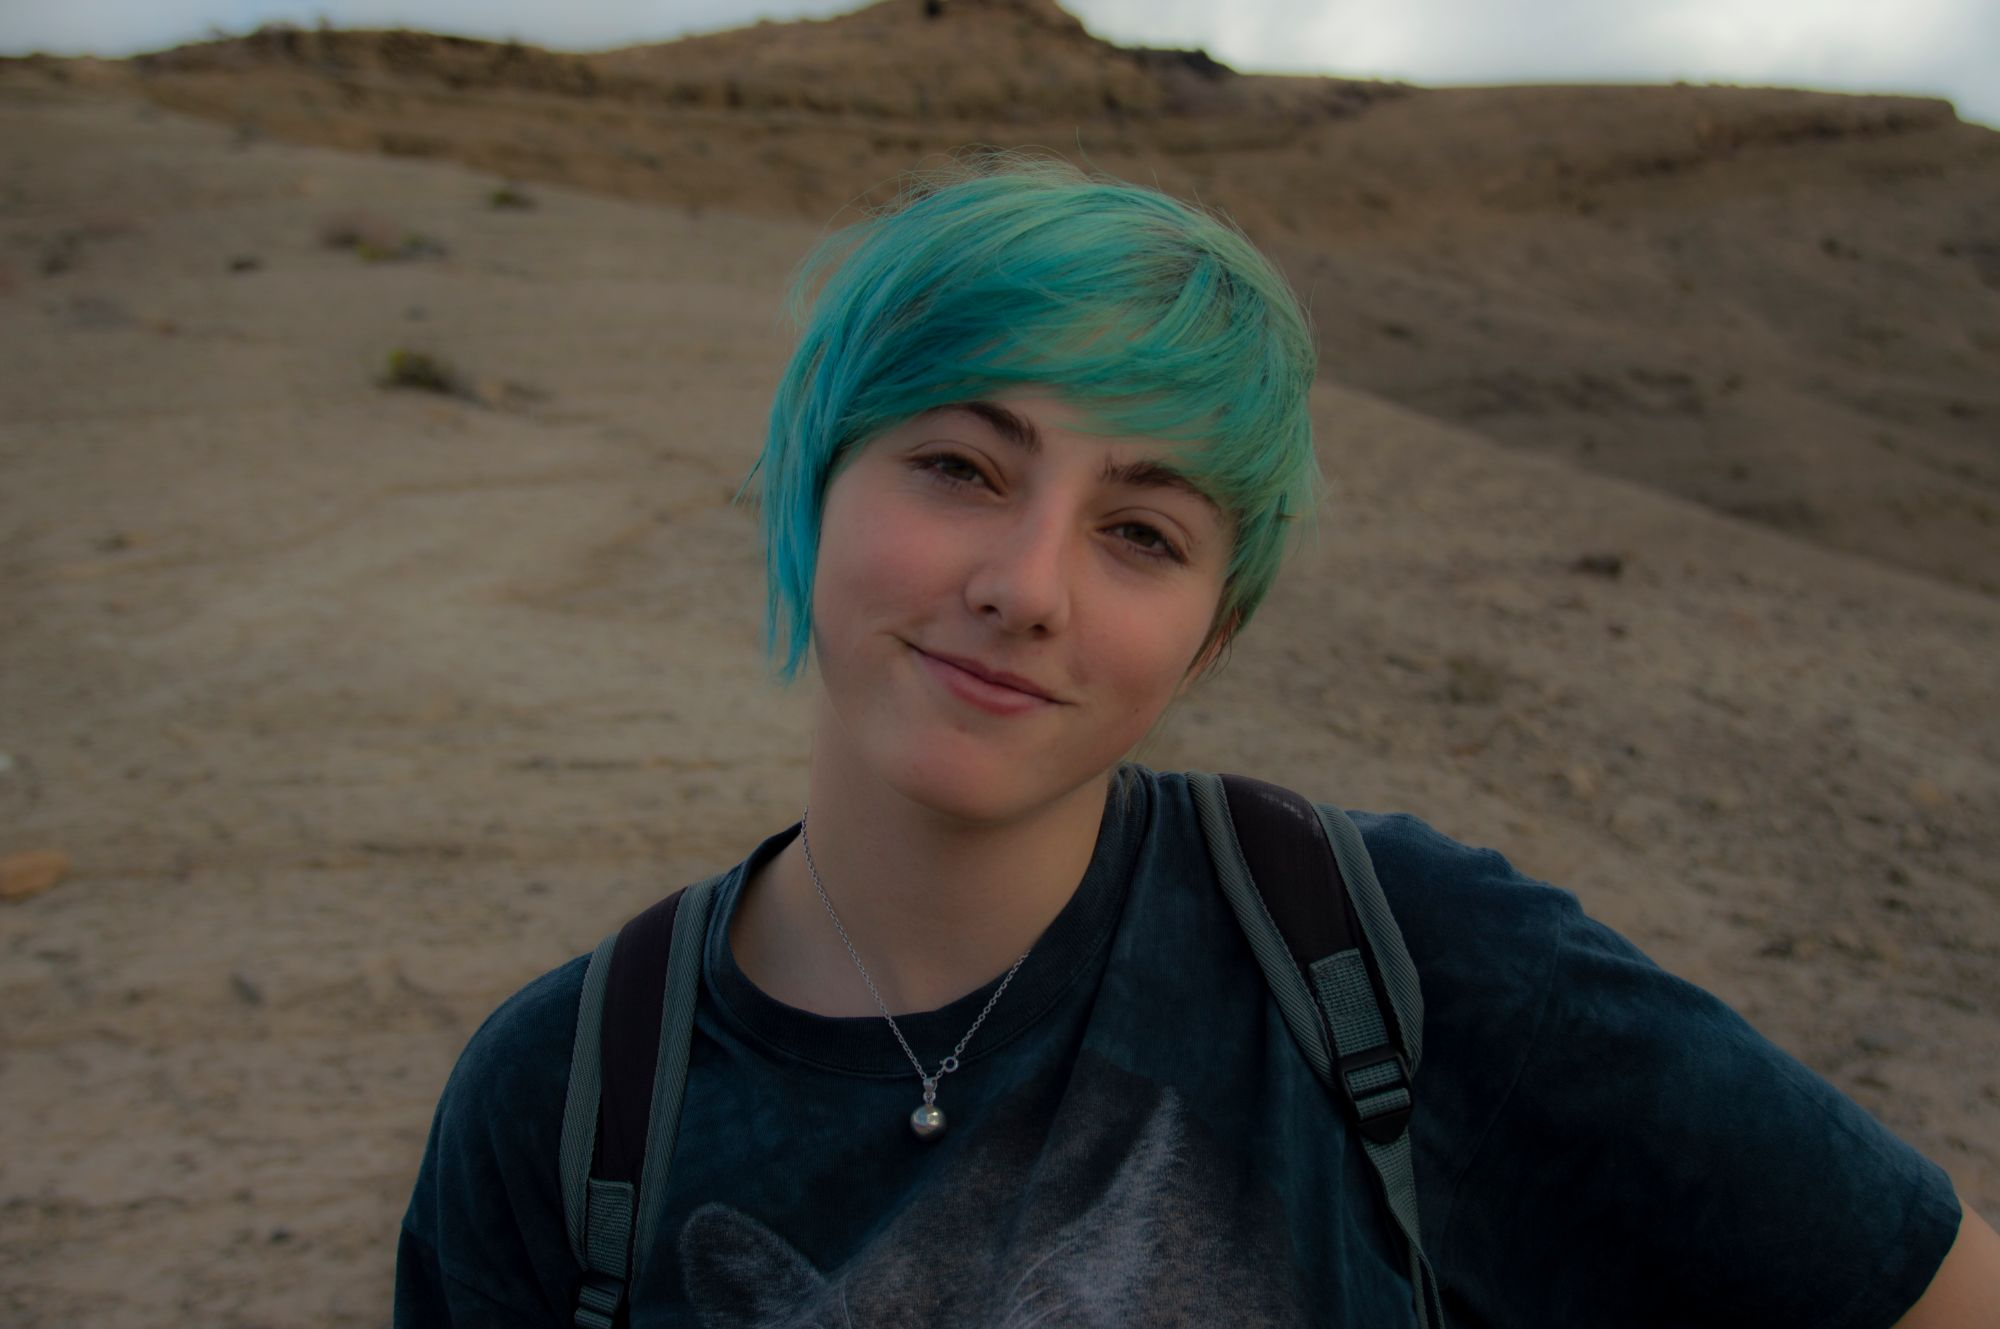
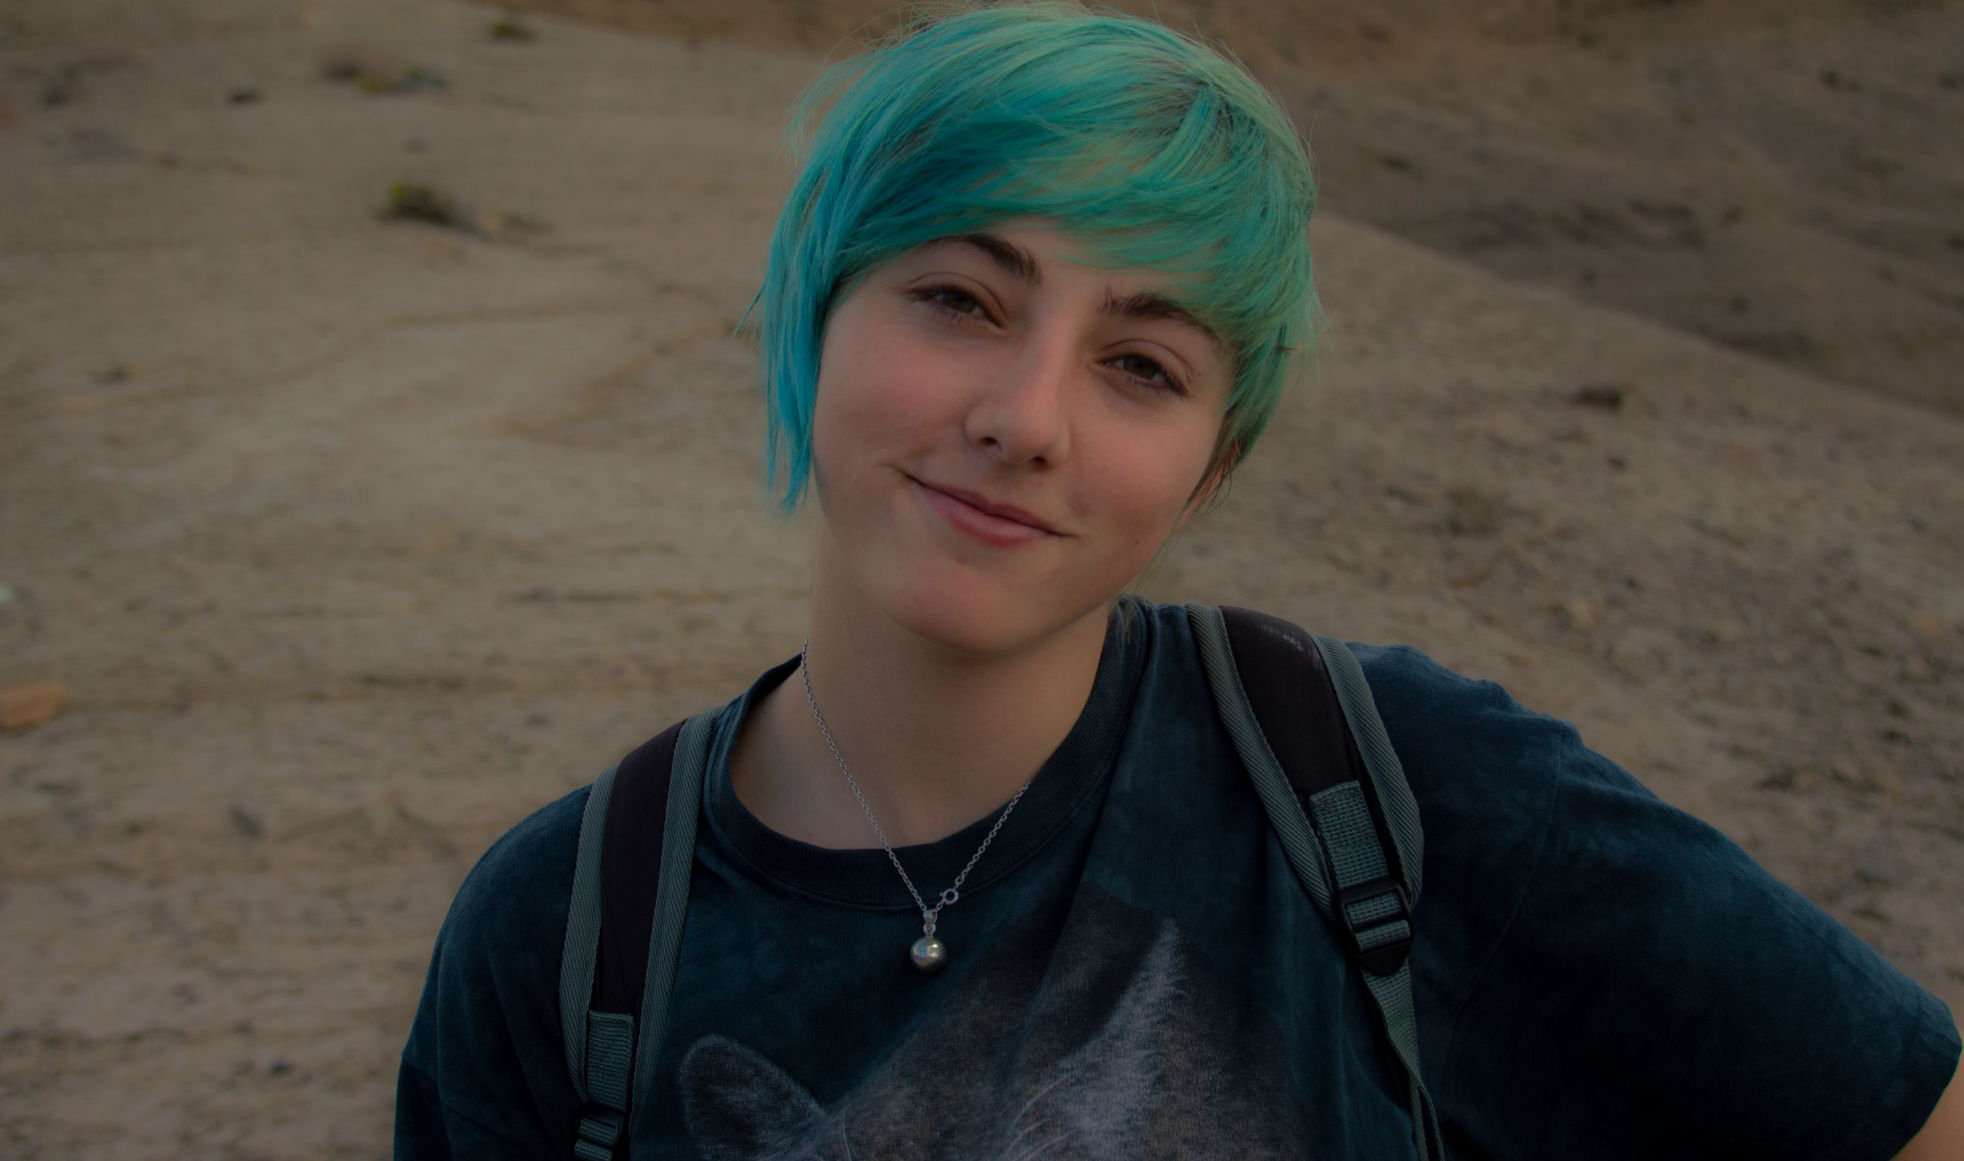
Mejorados fondos y arreglada foto del principio

diff --git a/index.html b/index.html
@@ -20,7 +20,7 @@
     <link rel="stylesheet" href="https://cdnjs.cloudflare.com/ajax/libs/aos/2.3.4/aos.css">
 </head>
 
-<body style="background: #5bb8cc;">
+<body style="background: rgb(91,184,204);">
     <nav class="navbar navbar-dark navbar-expand-lg fixed-top bg-dark navbar-custom" style="box-shadow: 0px 0px 10px;">
         <div class="container"><a class="navbar-brand" href="#">Lorena Gonzalez</a><button data-toggle="collapse" class="navbar-toggler" data-target="#navbarResponsive"><span class="navbar-toggler-icon"></span></button>
             <div class="collapse navbar-collapse" id="navbarResponsive">
@@ -32,10 +32,10 @@
             </div>
         </div>
     </nav>
-    <header class="d-block masthead text-center text-white" style="background: url(&quot;assets/img/DSC_0011.jpg&quot;) top / cover;margin-right: -171px;">
-        <div class="masthead-content">
+    <header class="d-block masthead text-center text-white" style="margin: 0px;margin-right: -171px;border-radius: 0px;height: 713px;min-width: 85px;border-width: 0px;border-style: none;background: url(&quot;assets/img/DSC_0011.jpg&quot;) no-repeat;background-size: cover;width: 100%;">
+        <div class="masthead-content" style="margin: 43px;">
             <div class="container-fluid">
-                <div>
+                <div style="margin-top: 24px;">
                     <h1 style="font-size: 96px;">I'M</h1>
                 </div>
                 <div class="text-left d-flex" style="padding-right: 45%;text-align: left;">
@@ -45,8 +45,8 @@
             </div>
         </div>
     </header>
-    <div data-bss-parallax-bg="true" class="backgroundimages" style="background: url(&quot;assets/img/1CIYOwX8N1LCk5QI-RjgWCHvfI9TaN3vlk3TTm0lo1w.jpg&quot;) center;"></div>
-    <section id="Profile" style="padding-top: 25px;background: #5bcccb;">
+    <div data-bss-parallax-bg="true" class="backgroundimages" style="background: url(&quot;assets/img/1CIYOwX8N1LCk5QI-RjgWCHvfI9TaN3vlk3TTm0lo1w.jpg&quot;) center / cover no-repeat;"></div>
+    <section id="Profile" style="padding-top: 25px;background: repeating-linear-gradient(-177deg, #5bcccb 0%, rgb(109,24,248) 100%), #5bcccb;">
         <div class="container">
             <div class="row">
                 <div class="col-md-12 d-flex d-sm-flex flex-column align-content-center flex-wrap justify-content-sm-center">
@@ -73,7 +73,7 @@
         </div>
     </section>
     <div data-bss-parallax-bg="true" class="backgroundimages" style="background: url(&quot;assets/img/Evil-Dead-The-Game.jpg&quot;) center / cover no-repeat;"></div>
-    <section id="Portfolio" class="clean-block clean-info dark" style="padding-top: 5px;background: #5bb8cc;color: rgb(33, 37, 41);">
+    <section id="Portfolio" class="clean-block clean-info dark" style="padding-top: 5px;background: linear-gradient(rgb(91,184,204), rgb(103,58,231)), #5bb8cc;color: rgb(33, 37, 41);">
         <div class="container" style="margin-top: 80px;">
             <div class="block-heading" style="margin-top: 0;margin-bottom: 20px;">
                 <h2 class="text-center text-info" style="font-family: 'Amatic SC', cursive;font-size: 80px;color: rgb(238,143,31)!important;">REEL<br></h2>
